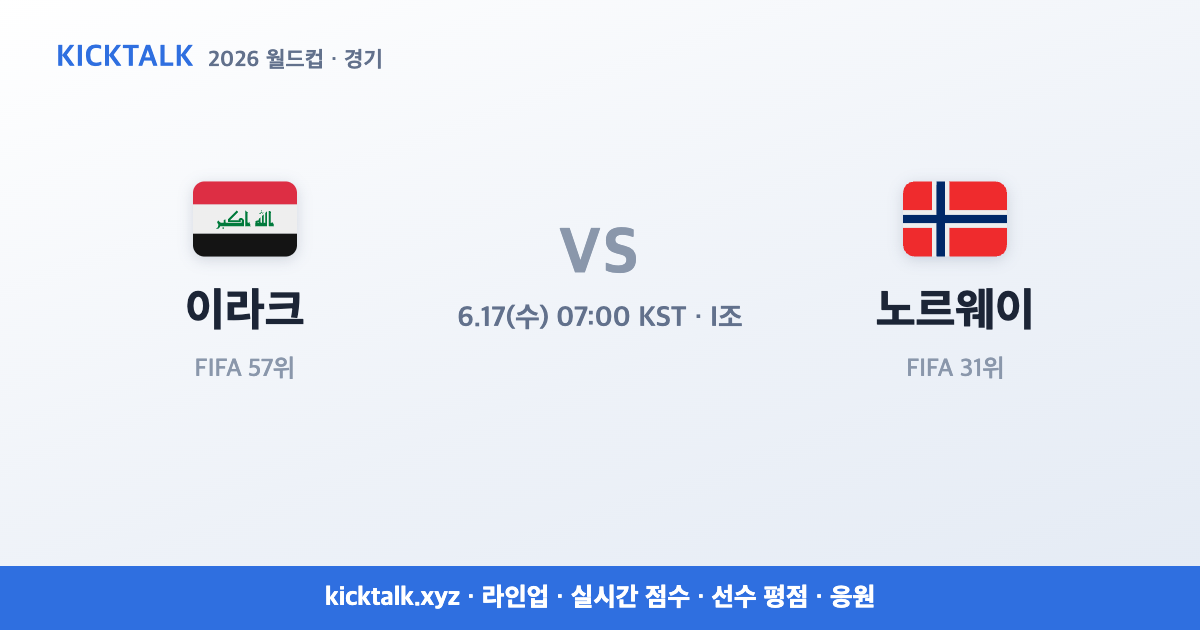
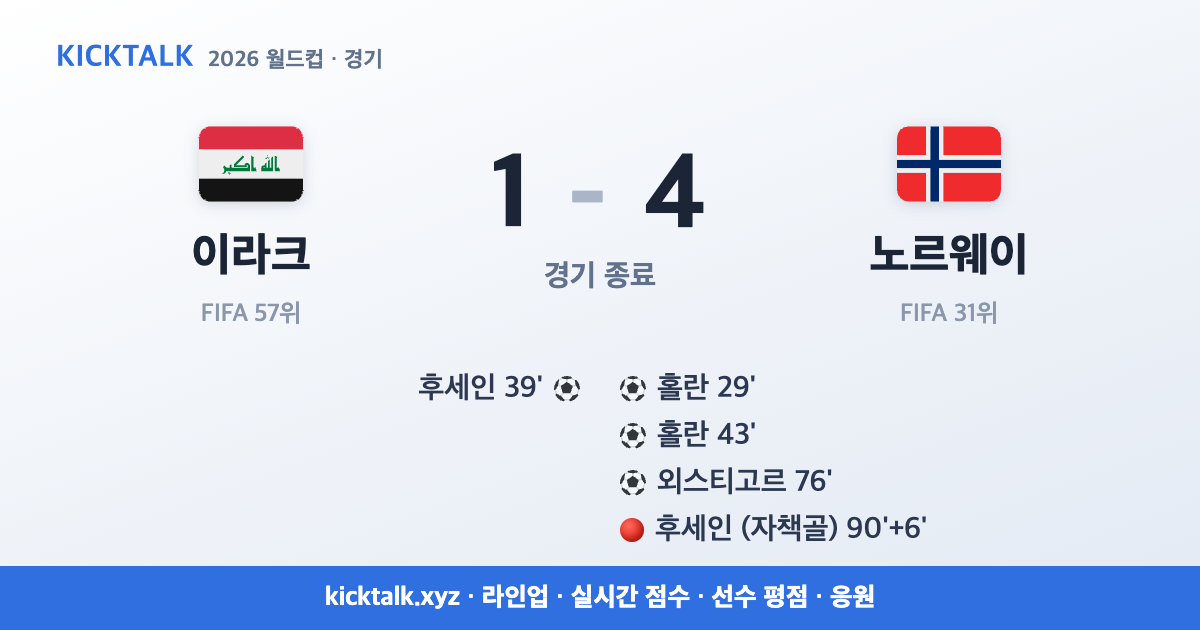
OG 자동재생성(종료경기 결과반영): match-50

diff --git a/m/iraq-vs-norway.html b/m/iraq-vs-norway.html
@@ -1,1 +1,1 @@
-<!DOCTYPE html><html lang=ko><head><meta charset=UTF-8><meta name=viewport content='width=device-width,initial-scale=1'><title>이라크 vs 노르웨이 중계·라인업·선수평점 | 킥톡 2026 월드컵</title><meta name=description content='이라크 vs 노르웨이 6/17(수) 07:00 KST 킥오프 (I조). 예상·확정 라인업, 실시간 중계 스코어, 선수 평점·MVP 투표, 응원·하이라이트까지 킥톡에서 한눈에.'><link rel=canonical href='https://kicktalk.xyz/m/iraq-vs-norway.html'><meta name=robots content='index,follow'><meta property=og:type content=website><meta property=og:title content='이라크 vs 노르웨이 — 중계·라인업·평점 | 킥톡'><meta property=og:description content='이라크 vs 노르웨이 6/17(수) 07:00 KST 킥오프 (I조). 예상·확정 라인업, 실시간 중계 스코어, 선수 평점·MVP 투표, 응원·하이라이트까지 킥톡에서 한눈에.'><meta property=og:url content='https://kicktalk.xyz/m/iraq-vs-norway.html'><meta property=og:image content='https://kicktalk.xyz/ogm/iraq-vs-norway.png?v=3'><meta property=og:image:width content='1200'><meta property=og:image:height content='630'><meta name=twitter:card content='summary_large_image'><meta name=twitter:title content='이라크 vs 노르웨이 | 킥톡'><meta name=twitter:description content='이라크 vs 노르웨이 6/17(수) 07:00 KST 킥오프 (I조). 예상·확정 라인업, 실시간 중계 스코어, 선수 평점·MVP 투표, 응원·하이라이트까지 킥톡에서 한눈에.'><meta name=twitter:image content='https://kicktalk.xyz/ogm/iraq-vs-norway.png?v=3'><script type=application/ld+json>{"@context":"https://schema.org","@type":"SportsEvent","name":"이라크 vs 노르웨이","sport":"축구","startDate":"2026-06-16","location":{"@type":"Place","name":"Gillette Stadium, Foxborough, MA"},"url":"https://kicktalk.xyz/m/iraq-vs-norway.html","competitor":[{"@type":"SportsTeam","name":"이라크"},{"@type":"SportsTeam","name":"노르웨이"}]}</script><style>body{margin:0;background:#070d18;color:#eaf0fb;font-family:-apple-system,'Apple SD Gothic Neo',sans-serif;line-height:1.6}.wrap{max-width:680px;margin:0 auto;padding:20px;text-align:center}a{color:#4f8cff;text-decoration:none}.brand{font-weight:800;padding:8px 0;font-size:15px}h1{font-size:26px;margin:18px 0 6px}.vs{color:#9fb0cc;font-size:18px;font-weight:600}.meta{color:#9fb0cc;font-size:14px;margin:0 0 8px}h2{font-size:14px;color:#9fb0cc;margin:22px 0 8px}ul.wp{list-style:none;padding:0;text-align:left}ul.wp li{background:#111c30;border:1px solid #243049;border-radius:8px;padding:9px 12px;margin-bottom:6px;font-size:14px}.cta{display:inline-block;background:#4f8cff;color:#06122a;font-weight:800;border-radius:11px;padding:13px 20px;margin:20px 0 8px}.sub{color:#6f7d96;font-size:12.5px}</style></head><body><div class=wrap><div class=brand>⚽ <a href='https://kicktalk.xyz/'>킥톡 KickTalk</a></div><h1>🇮🇶 이라크 <span class=vs>vs</span> 노르웨이 🇳🇴</h1><p class=meta>6/17(수) 07:00 KST · I조 · Gillette Stadium, Foxborough, MA</p><h2>이라크 vs 노르웨이 경기 정보·중계</h2><p>이라크 vs 노르웨이 경기는 6/17(수) 07:00 KST I조에 열립니다. 예상·확정 라인업과 실시간 중계 스코어, 경기 후 선수 평점·MVP 투표를 킥톡에서 무료로 확인하세요. 경기장: Gillette Stadium, Foxborough, MA.</p><h2>관전 포인트</h2><ul class=wp><li>에이멘 후세인을 겨냥한 이라크의 롱볼·세트피스와, 외데고르가 조율하는 노르웨이 빌드업의 스타일 대비</li><li>홀란이라는 결정적 한 방을 가진 노르웨이가, 라인을 내리고 버티는 이라크 수비를 풀어낼 수 있을지가 핵심</li><li>수비가 약점인 노르웨이를 상대로 이라크의 역습 한 방이 통할지 주목</li></ul><a class=cta href='https://kicktalk.xyz/#match/match-50'>킥톡에서 실시간 점수·라인업·선수평점 보기 →</a><p class=sub>예상 라인업 · 실시간 스코어 · 선수 평점/MVP 투표 · 응원 메시지 · 포인트 베팅</p></div><script>setTimeout(function(){location.replace('https://kicktalk.xyz/#match/match-50');},1400);</script></body></html>
+<!DOCTYPE html><html lang=ko><head><meta charset=UTF-8><meta name=viewport content='width=device-width,initial-scale=1'><title>이라크 vs 노르웨이 중계·라인업·선수평점 | 킥톡 2026 월드컵</title><meta name=description content='이라크 vs 노르웨이 6/17(수) 07:00 KST 킥오프 (I조). 예상·확정 라인업, 실시간 중계 스코어, 선수 평점·MVP 투표, 응원·하이라이트까지 킥톡에서 한눈에.'><link rel=canonical href='https://kicktalk.xyz/m/iraq-vs-norway.html'><meta name=robots content='index,follow'><meta property=og:type content=website><meta property=og:title content='이라크 vs 노르웨이 — 중계·라인업·평점 | 킥톡'><meta property=og:description content='이라크 vs 노르웨이 6/17(수) 07:00 KST 킥오프 (I조). 예상·확정 라인업, 실시간 중계 스코어, 선수 평점·MVP 투표, 응원·하이라이트까지 킥톡에서 한눈에.'><meta property=og:url content='https://kicktalk.xyz/m/iraq-vs-norway.html'><meta property=og:image content='https://kicktalk.xyz/ogm/iraq-vs-norway.png?v=4'><meta property=og:image:width content='1200'><meta property=og:image:height content='630'><meta name=twitter:card content='summary_large_image'><meta name=twitter:title content='이라크 vs 노르웨이 | 킥톡'><meta name=twitter:description content='이라크 vs 노르웨이 6/17(수) 07:00 KST 킥오프 (I조). 예상·확정 라인업, 실시간 중계 스코어, 선수 평점·MVP 투표, 응원·하이라이트까지 킥톡에서 한눈에.'><meta name=twitter:image content='https://kicktalk.xyz/ogm/iraq-vs-norway.png?v=4'><script type=application/ld+json>{"@context":"https://schema.org","@type":"SportsEvent","name":"이라크 vs 노르웨이","sport":"축구","startDate":"2026-06-16","location":{"@type":"Place","name":"Gillette Stadium, Foxborough, MA"},"url":"https://kicktalk.xyz/m/iraq-vs-norway.html","competitor":[{"@type":"SportsTeam","name":"이라크"},{"@type":"SportsTeam","name":"노르웨이"}]}</script><style>body{margin:0;background:#070d18;color:#eaf0fb;font-family:-apple-system,'Apple SD Gothic Neo',sans-serif;line-height:1.6}.wrap{max-width:680px;margin:0 auto;padding:20px;text-align:center}a{color:#4f8cff;text-decoration:none}.brand{font-weight:800;padding:8px 0;font-size:15px}h1{font-size:26px;margin:18px 0 6px}.vs{color:#9fb0cc;font-size:18px;font-weight:600}.meta{color:#9fb0cc;font-size:14px;margin:0 0 8px}h2{font-size:14px;color:#9fb0cc;margin:22px 0 8px}ul.wp{list-style:none;padding:0;text-align:left}ul.wp li{background:#111c30;border:1px solid #243049;border-radius:8px;padding:9px 12px;margin-bottom:6px;font-size:14px}.cta{display:inline-block;background:#4f8cff;color:#06122a;font-weight:800;border-radius:11px;padding:13px 20px;margin:20px 0 8px}.sub{color:#6f7d96;font-size:12.5px}</style></head><body><div class=wrap><div class=brand>⚽ <a href='https://kicktalk.xyz/'>킥톡 KickTalk</a></div><h1>🇮🇶 이라크 <span class=vs>vs</span> 노르웨이 🇳🇴</h1><p class=meta>6/17(수) 07:00 KST · I조 · Gillette Stadium, Foxborough, MA</p><h2>이라크 vs 노르웨이 경기 정보·중계</h2><p>이라크 vs 노르웨이 경기는 6/17(수) 07:00 KST I조에 열립니다. 예상·확정 라인업과 실시간 중계 스코어, 경기 후 선수 평점·MVP 투표를 킥톡에서 무료로 확인하세요. 경기장: Gillette Stadium, Foxborough, MA.</p><h2>관전 포인트</h2><ul class=wp><li>에이멘 후세인을 겨냥한 이라크의 롱볼·세트피스와, 외데고르가 조율하는 노르웨이 빌드업의 스타일 대비</li><li>홀란이라는 결정적 한 방을 가진 노르웨이가, 라인을 내리고 버티는 이라크 수비를 풀어낼 수 있을지가 핵심</li><li>수비가 약점인 노르웨이를 상대로 이라크의 역습 한 방이 통할지 주목</li></ul><a class=cta href='https://kicktalk.xyz/#match/match-50'>킥톡에서 실시간 점수·라인업·선수평점 보기 →</a><p class=sub>예상 라인업 · 실시간 스코어 · 선수 평점/MVP 투표 · 응원 메시지 · 포인트 베팅</p></div><script>setTimeout(function(){location.replace('https://kicktalk.xyz/#match/match-50');},1400);</script></body></html>